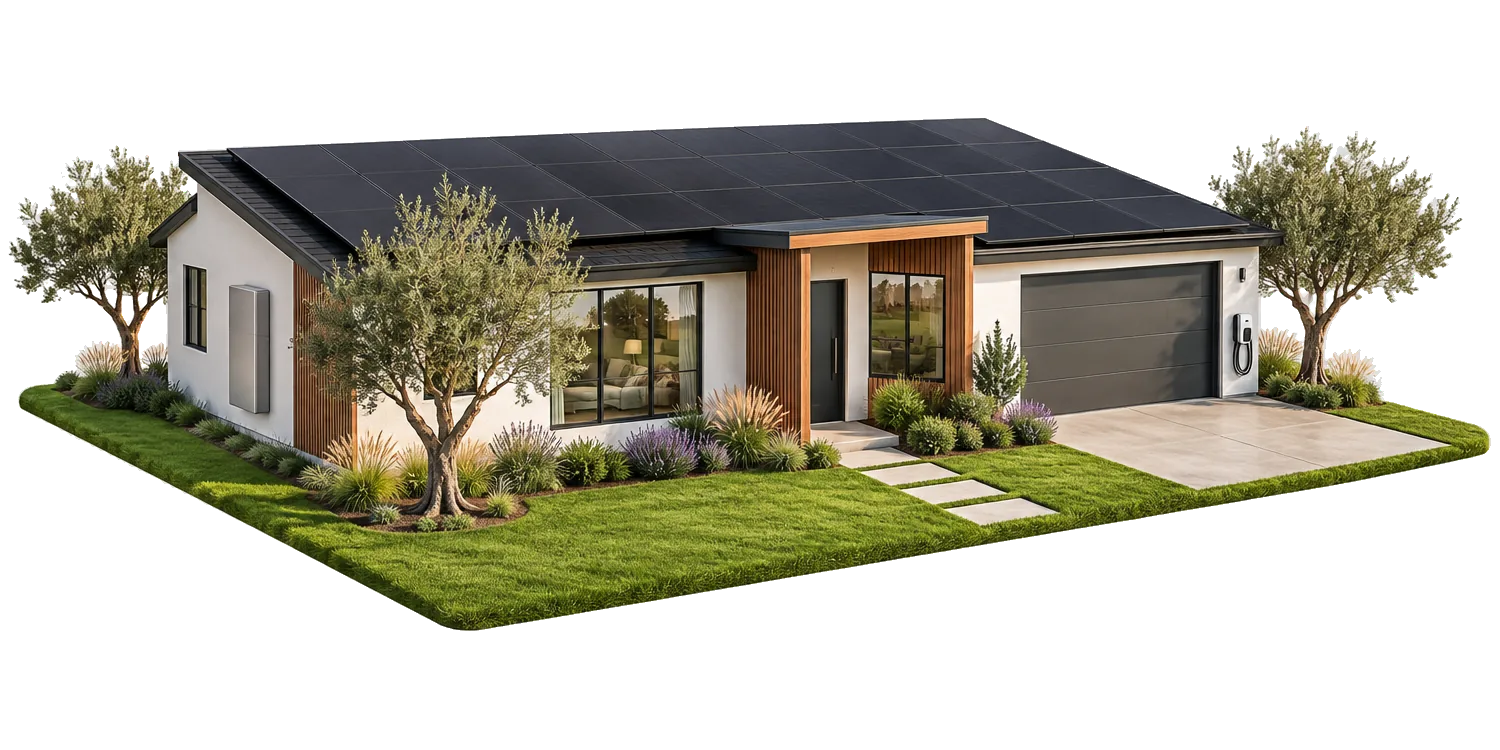
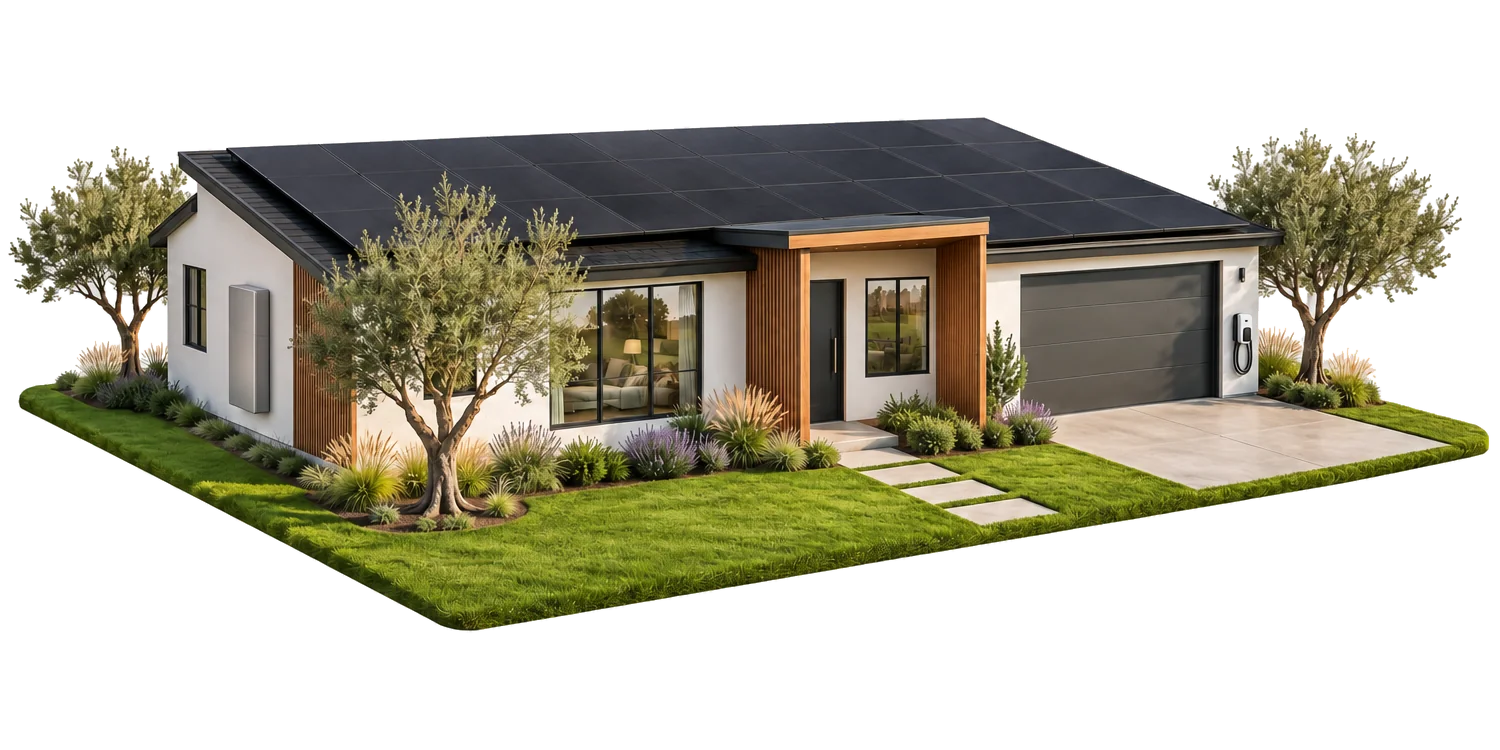
Demo house: fix the front entry
The window right of the front door was sitting on the wood slats. It's now
on the white back wall of a recessed porch, behind a wood-slat side wall.
New day and night pictures, README shots updated, and the prompts I used
for the fix and the new before photo are in prompts/demo-house.md. The demo
asks for the house pictures with ?r=2 so cached copies get replaced.

diff --git a/frontend/src/demo/demo.js b/frontend/src/demo/demo.js
@@ -19,8 +19,8 @@ import { BATTERY_IMG, DEMO_CARS, DEMO_LAYOUT } from "./layout.js";
 import { cardSheet, hostSheet } from "./styles.js";
 
 const IMG = {
-  day: new URL("img/house-day.webp", import.meta.url).href,
-  night: new URL("img/house-night.webp", import.meta.url).href,
+  day: new URL("img/house-day.webp?r=2", import.meta.url).href,
+  night: new URL("img/house-night.webp?r=2", import.meta.url).href,
 };
 const BATT_IMG = {
   day: new URL(`img/${BATTERY_IMG.day}`, import.meta.url).href,

diff --git a/prompts/demo-house.md b/prompts/demo-house.md
@@ -36,6 +36,26 @@ Same chat, right after the day image:
 Exact same image, exact same camera, composition and slab, change nothing else: make it blue-hour dusk. Warm golden light glowing from every window, a thin warm LED glow along the roof edges and garage trim, small path lights glowing along the stepping stones, cool blue-hour light on the lawn. Keep the background perfectly flat solid gray (#2A2A2A), no glow, no vignette, no shadow under the slab.
 ```
 
+## Fixing the entry
+
+The first day render had the window by the front door mounted right on the
+wood slats, which isn't how anyone would build it. I fixed it with an edit
+instead of starting over, so the cars, battery and lines still fit. New chat,
+the day render attached:
+
+```text
+Attached is a render I made earlier. Edit ONLY the front entry area. Everything else must stay exactly the same: same camera, same framing, same image size, same house, roof, solar panels, lawn slab, trees, plants, stepping stones, driveway, garage door, wall charger, gray box on the left wall, lighting, and the same flat light gray (#E6E6E6) background. Do not move, resize or redraw anything outside the entry.
+
+What's wrong: to the right of the front door, the black-framed window is mounted on the front face of the wood-slat panel. That's not how it's built.
+
+Fix it like this: the entry is a recessed porch under the flat wood-trimmed entry roof. The back wall of the porch is white stucco and faces the street, parallel to the front of the house. The black-framed window is in that back white stucco wall, to the right of the front door, facing the street. On the right side of the porch is a wood-clad side wall that runs straight out toward the street, perpendicular to the front of the house. From this camera angle we see the inside face of that side wall, angled toward the left. Its front edge lines up with the front edge of the entry roof. That side wall has the same tight vertical wood slat cladding, same warm wood color and same look as the original. The window is set back behind the front edge of that wood wall and is not on the wood at all.
+
+Keep the same wood slat style as the original: solid cladding with tight slats, not an open screen and no gaps you can see through. Keep the wood-clad post on the left of the door, the dark front door and its handle, the entry roof with its wood fascia, and the front step exactly as they are.
+```
+
+Then I ran the night prompt again in that same chat. Flip between the old
+and new picture to check nothing else moved.
+
 ## If something's off
 
 - Background has a glow or gradient at the edges: "make the background a
@@ -98,21 +118,26 @@ soft wall shadow and the glow while it charges or discharges.
 
 The House image page shows a "before" photo next to the render, the kind of
 picture an owner would start from. The demo house isn't real, so I asked for
-an ordinary phone photo of it. Same chat as the house, with the day render
-attached again.
+an ordinary phone photo of it. New chat, with only the (fixed) day render
+attached. Calling the render a reference and asking for a new photo is what
+keeps it looking like a photo instead of another render.
 
 ```text
-Attached is a render of a house. Now show me what this exact house looks like in an ordinary real-life photo, the kind a homeowner snaps on their phone.
+The attached image is a 3D render I use only as a REFERENCE for what a house looks like. Do not edit the render or copy its style. Instead, create a brand-new, real photograph of this exact house, as if I walked up to the real house and took a picture with my iPhone.
 
-Same house, same materials, colors, windows, wood slats, gray garage door, black solar panels on the roof, wall charger and gray box on the left wall. Do not change or add any features.
+The house must match the reference exactly: same shape, same white stucco walls, same black-framed windows in the same places, same dark front door, same gray garage door, same wall charger, same gray box on the left side wall, same olive trees and plantings, black solar panels on the roof. Pay close attention to the front entry: it is a recessed porch under a flat roof with a wood fascia. The window to the right of the front door is on the white back wall of the porch. A wood-slat side wall on the right runs out toward the street, and the window sits behind its front edge, not on the wood. There is a wood-slat post to the left of the door. Do not add, remove or move any feature.
 
-Camera: a normal smartphone photo taken standing on the sidewalk at the front-left corner of the lot, at eye level (about 5 feet high), looking at the house at an angle, so the left side wall and the front are both visible. From this low angle only the front edge of the solar roof shows. Slight wide-angle phone lens look.
+Photo, not a render: taken standing on the sidewalk at the front-left corner of the lot, at eye level (about 5 feet high), looking at the house at an angle so the left side wall and the front are both visible. Only the front edge of the solar roof shows from this low angle. Slight wide-angle phone lens. Natural late-morning sun, real shadows, a little bit of sky, slightly uneven real lawn, a concrete sidewalk and the edge of the street in the foreground, an ordinary suburban neighborhood. A bit of phone-camera noise and imperfect exposure. Not stylized, not too perfect, no floating lawn slab, no studio background.
 
-Make it look like a real, unedited photo: natural late-morning daylight, a few soft shadows, slightly uneven lawn, an ordinary suburban street feel, a little bit of sky. Not a render, not stylized, no studio look.
-
-Empty driveway: no cars, no people, no pets. No text anywhere: no house numbers, no street signs, no mailbox numbers, no license plates, no logos. Neighboring houses, if any show at the edges, are blurred and generic.
+Empty driveway: no cars, no people, no pets. No text anywhere: no house numbers, no street signs, no license plates, no logos. Any neighboring houses at the edges are blurred and generic.
 
 Landscape 4:3, at least 1600 px wide.
+```
+
+It put a blurry house next door, so I followed up with:
+
+```text
+Same photo, change nothing else: remove the blurry neighboring house. Where it was, show what would naturally be there instead: a few trees, shrubs and a wood fence along the side of the lot, softly out of focus like the rest of the background. Keep the house, the entry, the camera, the light and the phone-photo look exactly the same.
 ```
 
 ## Before it goes in the repo
